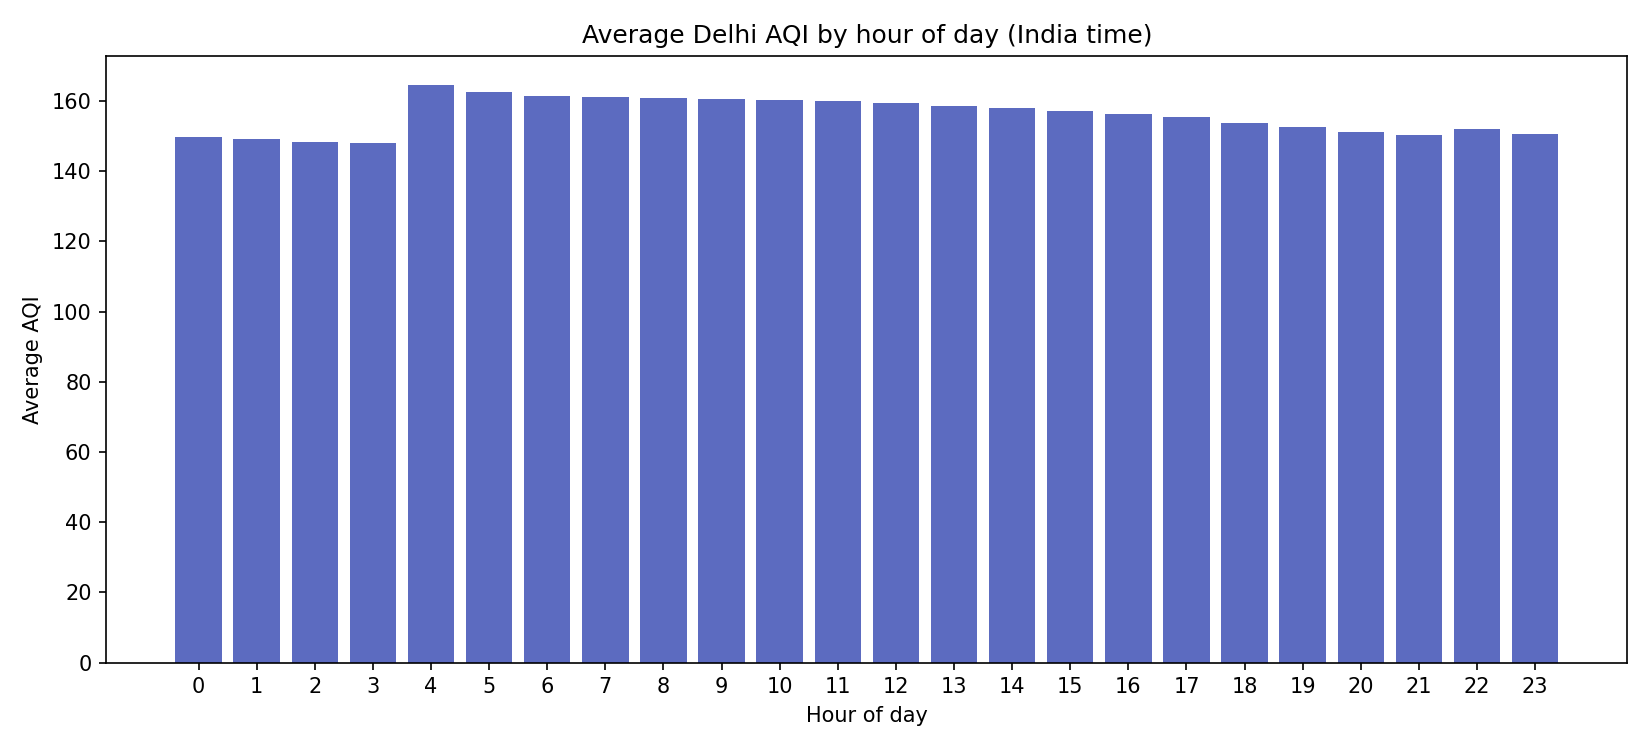
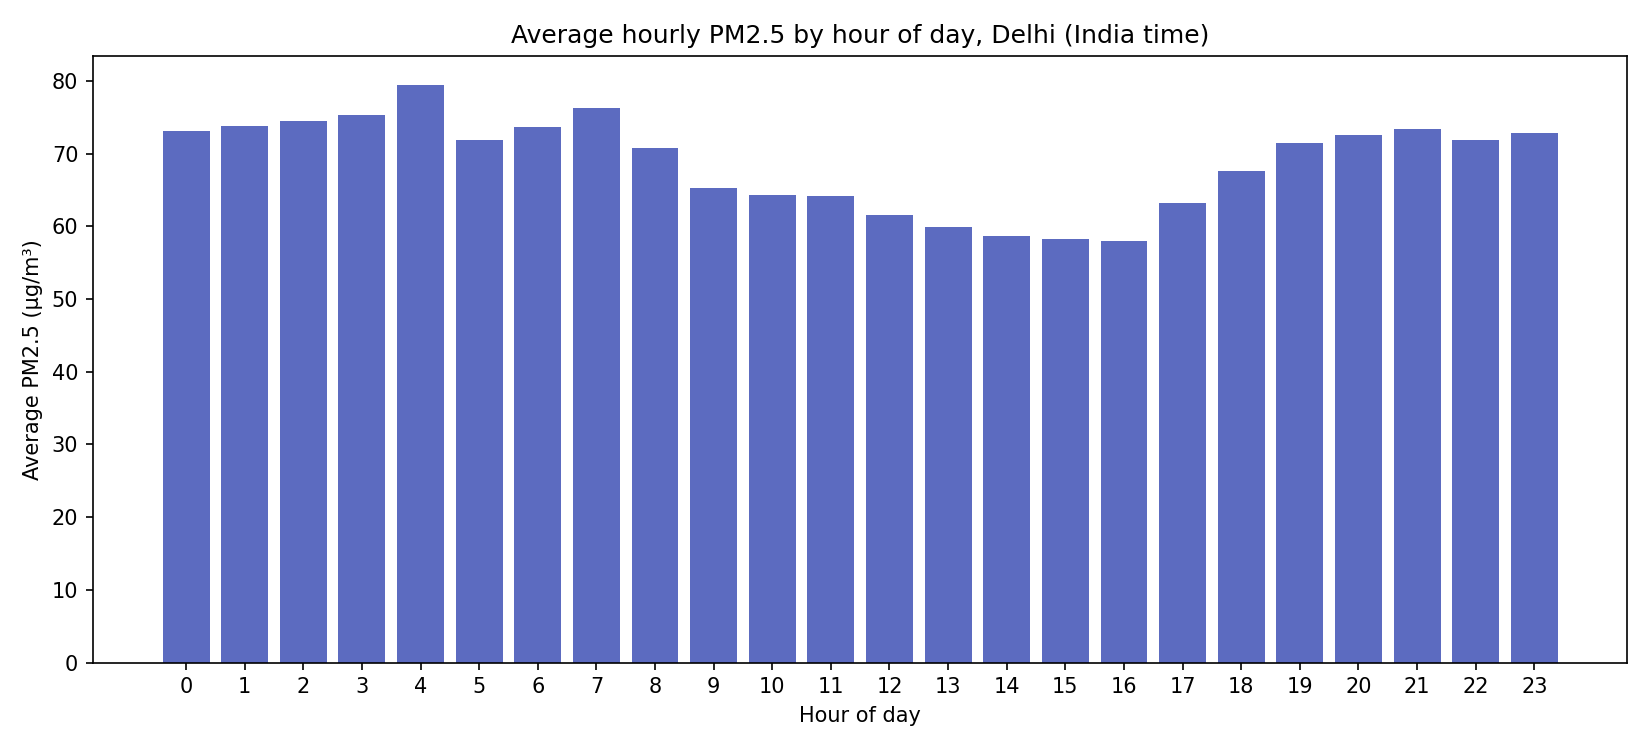
Add AQI trend and hourly PM2.5 charts

diff --git a/src/make_charts.py b/src/make_charts.py
@@ -16,7 +16,7 @@ conn = psycopg2.connect(
 )
 cur = conn.cursor()
 cur.execute("""
-    SELECT observed_at_ist, aqi
+    SELECT observed_at_ist, aqi, pm2_5
     FROM clean_aqi
     WHERE NOT is_forecast
     ORDER BY observed_at_ist
@@ -25,9 +25,10 @@ rows = cur.fetchall()
 cur.close()
 conn.close()
 
-df = pd.DataFrame(rows, columns=["observed_at_ist", "aqi"])
+df = pd.DataFrame(rows, columns=["observed_at_ist", "aqi", "pm2_5"])
 df["observed_at_ist"] = pd.to_datetime(df["observed_at_ist"])
 df["aqi"] = df["aqi"].astype(float)
+df["pm2_5"] = df["pm2_5"].astype(float)
 
 # Skip the first 23 hours: their 24h average is incomplete
 df = df.iloc[23:]
@@ -35,6 +36,7 @@ df = df.iloc[23:]
 os.makedirs("charts", exist_ok=True)
 
 # 2. Chart 1: AQI over time with category bands
+#    (24h-average AQI is the right metric for a day-to-day trend)
 bands = [
     (0, 50, "Good", "#4caf50"),
     (50, 100, "Satisfactory", "#9ccc65"),
@@ -60,16 +62,17 @@ fig.tight_layout()
 fig.savefig("charts/aqi_over_time.png", dpi=150)
 plt.close(fig)
 
-# 3. Chart 2: average AQI by hour of day
+# 3. Chart 2: average HOURLY PM2.5 by hour of day
+#    (hourly values, not 24h averages, so the daily pattern is visible)
 df["hour"] = df["observed_at_ist"].dt.hour
-by_hour = df.groupby("hour")["aqi"].mean()
+by_hour = df.groupby("hour")["pm2_5"].mean()
 
 fig, ax = plt.subplots(figsize=(11, 5))
 ax.bar(by_hour.index, by_hour.values, color="#5c6bc0")
 ax.set_xticks(range(24))
-ax.set_title("Average Delhi AQI by hour of day (India time)")
+ax.set_title("Average hourly PM2.5 by hour of day, Delhi (India time)")
 ax.set_xlabel("Hour of day")
-ax.set_ylabel("Average AQI")
+ax.set_ylabel("Average PM2.5 (µg/m³)")
 fig.tight_layout()
 fig.savefig("charts/aqi_by_hour.png", dpi=150)
 plt.close(fig)
@@ -80,6 +83,6 @@ best_hour = by_hour.idxmin()
 print(f"Hours analysed: {len(df)}")
 print(f"From {df['observed_at_ist'].min()} to {df['observed_at_ist'].max()}")
 print(f"Average AQI: {df['aqi'].mean():.0f}")
-print(f"Worst hour of day: {worst_hour}:00 (avg AQI {by_hour.max():.0f})")
-print(f"Best hour of day: {best_hour}:00 (avg AQI {by_hour.min():.0f})")
+print(f"Worst hour of day: {worst_hour}:00 (avg PM2.5 {by_hour.max():.0f} µg/m³)")
+print(f"Best hour of day: {best_hour}:00 (avg PM2.5 {by_hour.min():.0f} µg/m³)")
 print("Charts saved in the charts/ folder.")
